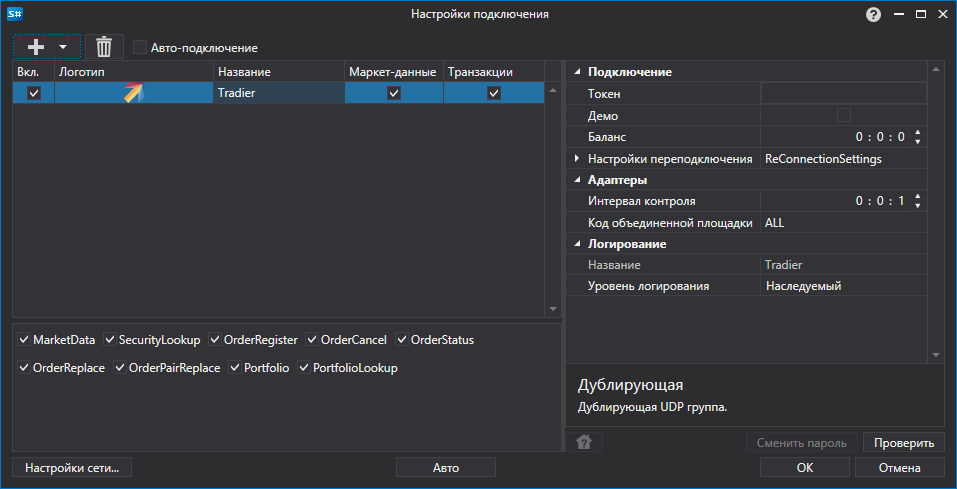
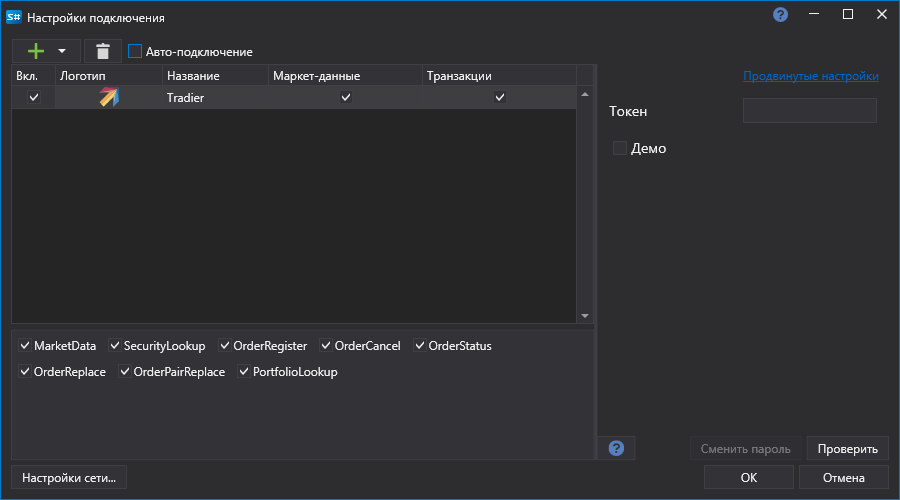
OAuth

diff --git a/ru/topics/api/connectors/stock_market/tradier/graphical_configuration_tradier.md b/ru/topics/api/connectors/stock_market/tradier/graphical_configuration_tradier.md
@@ -1,19 +1,38 @@
 # Графическое конфигурирование Tradier
 
-Для всех продуктов [S\#](../../../../api.md) графическая настройка подключения выполняется в экранной форме [Окно настройки подключений](../../../graphical_user_interface/connection_settings_window.md):
+Для всех продуктов StockSharp графическая настройка подключения выполняется в экранной форме [Окно настройки подключений](../../../graphical_user_interface/connection_settings_window.md):
 
 ![API GUI Settings Tradier](../../../../../images/api_gui_settings_tradier.png)
 
-- **Токен** \- Токен.
-- **Демо** \- Демо режим.
-- **Баланс** \- Интервал проверки баланса. Требуется в случае наличия действий по вводы или выводы.
-- **Настройки переподключения** \- Настройки механизма отслеживания подключения с торговой системой ([Настройки переподключения](../../reconnection_settings.md)). 
-- **Интервал контроля** \- Интервал оповещения сервера о том, что подключение еще живое. По умолчанию равно 1 минуте. 
-- **Код объединенной площадки** \- Код площадки для объединенного инструмента. 
+- **Токен** - Токен для авторизации.
+- **Демо** - Демо режим.
+
+Авторизация OAuth:
+
+1. Можно напрямую вставить токен в поле "Токен".
+2. Если оставить поле токена пустым и не выбран режим "Демо", будет использоваться авторизация по OAuth.
+
+Процесс OAuth авторизации:
+
+1. При нажатии кнопки "Проверить" откроется окно:
+
+   ![OAuth Start](../../../../../images/oauth_start.png)
+
+2. После нажатия "Старт" пользователь будет перенаправлен на сайт Tradier для входа:
+
+   ![Tradier Login](../../../../../images/api_gui_settings_tradier_2.png)
+
+3. На сайте Tradier нужно разрешить приложению StockSharp доступ к торговым операциям:
+
+   ![Tradier Permissions](../../../../../images/api_gui_settings_tradier_3.png)
+
+4. После этого произойдет перенаправление обратно на сайт StockSharp, и программа автоматически выполнит вход.
 
 ## См. также
 
 [Коннекторы](../../../connectors.md)
+
+[OAuth](../../oauth.md)
 
 [Графическое конфигурирование](../../graphical_configuration.md)
 

diff --git a/ru/topics/api/connectors/russia/alor/ui_settings.md b/ru/topics/api/connectors/russia/alor/ui_settings.md
@@ -1,16 +1,39 @@
 # Графическое конфигурирование Alor
 
-Для всех продуктов [S\#](../../../../api.md) графическая настройка подключения выполняется в экранной форме [Окно настройки подключений](../../../graphical_user_interface/connection_settings_window.md):
+Для всех продуктов StockSharp графическая настройка подключения выполняется в экранной форме [Окно настройки подключений](../../../graphical_user_interface/connection_settings_window.md):
 
 ![API GUI Settings Alor](../../../../../images/api_gui_settings_alor.png)
 
-- **Токен** \- Refresh токен.
-- **Логин** \- Логин. Используется для получения информации по всему логину.
-- **Демо** \- Демо торги.
+- **Токен** - Refresh токен.
+- **Демо** - Демо торги.
+- **Биржа** - Выбор бирж (по умолчанию MOEX.SPBX).
+
+Авторизация OAuth:
+
+1. Можно напрямую вставить refresh токен в поле "Токен".
+2. Если оставить поле токена пустым и не выбран режим "Демо", будет использоваться авторизация по OAuth.
+
+Процесс OAuth авторизации:
+
+1. При нажатии кнопки "Проверить" откроется окно:
+
+   ![OAuth Start](../../../../../images/oauth_start.png)
+
+2. После нажатия "Старт" пользователь будет перенаправлен на сайт Alor Broker для входа:
+
+   ![Alor Login](../../../../../images/api_gui_settings_alor_2.png)
+
+3. На сайте Alor Broker нужно разрешить приложению StockSharp доступ к торговым операциям:
+
+   ![Alor Permissions](../../../../../images/api_gui_settings_alor_3.png)
+
+4. После этого произойдет перенаправление обратно на сайт StockSharp, и программа автоматически выполнит вход.
 
 ## См. также
 
 [Коннекторы](../../../connectors.md)
+
+[OAuth](../../oauth.md)
 
 [Графическое конфигурирование](../../graphical_configuration.md)
 

diff --git a/en/topics/api/connectors/stock_market/tradier/graphical_configuration_tradier.md b/en/topics/api/connectors/stock_market/tradier/graphical_configuration_tradier.md
@@ -1,21 +1,41 @@
-# Graphical configuration Tradier
+# Graphical configuration of Tradier
 
-For all [S\#](../../../../api.md) products, graphical configuration of the connection is performed on the [Connection settings window](../../../graphical_user_interface/connection_settings_window.md):
+For all StockSharp products, graphical connection setup is performed in the [Connection settings window](../../../graphical_user_interface/connection_settings_window.md) screen form:
 
 ![API GUI Settings Tradier](../../../../../images/api_gui_settings_tradier.png)
 
-- **Token** \- Token.
-- **Demo** \- Connect to demo trading instead of real trading server.
-- **Balance** \- Balance check interval. Required in case of deposit and withdraw actions.
-- **Heart beat** \- Server check interval for track the connection alive. By default equal to 1 minute.
-- **Reconnection settings** \- Mechanism for tracking connections with the trading system settings. ([Reconnection settings](../../reconnection_settings.md))
+- **Token** - Authorization token.
+- **Demo** - Demo mode.
 
-## Recommended content
+OAuth Authorization:
+
+1. You can directly insert the token into the "Token" field.
+2. If you leave the token field empty and the "Demo" mode is not selected, OAuth authorization will be used.
+
+OAuth authorization process:
+
+1. When you click the "Check" button, a window will open:
+
+   ![OAuth Start](../../../../../images/oauth_start.png)
+
+2. After clicking "Start", the user will be redirected to the Tradier website to log in:
+
+   ![Tradier Login](../../../../../images/api_gui_settings_tradier_2.png)
+
+3. On the Tradier website, you need to allow the StockSharp application access to trading operations:
+
+   ![Tradier Permissions](../../../../../images/api_gui_settings_tradier_3.png)
+
+4. After that, you will be redirected back to the StockSharp website, and the program will automatically log in.
+
+## See also
 
 [Connectors](../../../connectors.md)
 
+[OAuth](../../oauth.md)
+
 [Graphical configuration](../../graphical_configuration.md)
 
-[Creating own connector](../../creating_own_connector.md)
+[Creating your own connector](../../creating_own_connector.md)
 
-[Save and load settings](../../save_and_load_settings.md)
+[Saving and loading settings](../../save_and_load_settings.md)

diff --git a/ru/topics/api/connectors/oauth.md b/ru/topics/api/connectors/oauth.md
@@ -1,0 +1,29 @@
+# OAuth авторизация
+
+Для использования OAuth авторизации в коннекторах в вашей программе необходимо зарегистрировать несколько сервисов:
+
+```csharp
+// Подключение хранилища паролей для доступа на StockSharp WebAPI.
+// Требуется предварительная авторизация. Например, через Installer.
+ConfigManager.RegisterService<ICredentialsProvider>(new DefaultCredentialsProvider());
+
+// Подключение провайдера сервисов для доступа к StockSharp WebAPI
+ConfigManager.RegisterService<IApiServiceProvider>(new ApiServiceProvider());
+                           
+// Сервис OAuth авторизации, который будут использовать коннекторы
+ConfigManager.RegisterService<IOAuthProvider>(new OAuthProvider());
+```
+
+- [DefaultCredentialsProvider](xref:StockSharp.Configuration.DefaultCredentialsProvider) реализует интерфейс [ICredentialsProvider](xref:StockSharp.Configuration.ICredentialsProvider)
+- [ApiServiceProvider](xref:StockSharp.Web.Api.Client.ApiServiceProvider) реализует интерфейс [IApiServiceProvider](xref:StockSharp.Web.Api.Client.IApiServiceProvider)
+- `OAuthProvider` реализует интерфейс [IOAuthProvider](xref:Ecng.Net.IOAuthProvider)
+
+Для [IOAuthProvider](xref:Ecng.Net.IOAuthProvider) существует два варианта реализации:
+
+1. [WebApiOAuthProvider](xref:StockSharp.Studio.WebApi.WebApiOAuthProvider) - для консольных приложений, где не требуется показ окна авторизации.
+
+2. [OAuthProvider](xref:StockSharp.Studio.Controls.OAuthProvider) - для WPF-приложений, где необходимо показать окно авторизации:
+
+   ![OAuth Start](../../../images/oauth_start.png)
+
+Выбор конкретной реализации `OAuthProvider` зависит от типа вашего приложения и требований к процессу авторизации.

diff --git a/ru/topics/api/connectors/forex/ctrader/graphical_configuration_ctrader.md b/ru/topics/api/connectors/forex/ctrader/graphical_configuration_ctrader.md
@@ -1,14 +1,32 @@
 # Графическое конфигурирование cTrader
 
-Для всех продуктов [S\#](../../../../api.md) графическая настройка подключения выполняется в экранной форме [Окно настройки подключений](../../../graphical_user_interface/connection_settings_window.md):
+Для всех продуктов StockSharp графическая настройка подключения выполняется в экранной форме [Окно настройки подключений](../../../graphical_user_interface/connection_settings_window.md):
 
 ![API GUI Settings cTrader](../../../../../images/api_gui_settings_ctrader.png)
 
-- **Демо** \- Подключение к демо торгам. 
+- **Демо** - Подключение к демо торгам.
+
+Авторизация OAuth:
+
+cTrader предоставляет только OAuth способ авторизации.
+
+Процесс OAuth авторизации:
+
+1. При нажатии кнопки "Проверить" откроется окно:
+
+   ![OAuth Start](../../../../../images/oauth_start.png)
+
+2. После нажатия "Старт" пользователь будет перенаправлен на сайт cTrader для входа. На сайте cTrader нужно разрешить приложению StockSharp доступ к торговым операциям:
+
+   ![cTrader Login](../../../../../images/api_gui_settings_ctrader_2.png)
+
+3. После этого произойдет перенаправление обратно на сайт StockSharp, и программа автоматически выполнит вход.
 
 ## См. также
 
 [Коннекторы](../../../connectors.md)
+
+[OAuth](../../oauth.md)
 
 [Графическое конфигурирование](../../graphical_configuration.md)
 

diff --git a/en/topics/api/connectors/oauth.md b/en/topics/api/connectors/oauth.md
@@ -1,0 +1,29 @@
+# OAuth Authorization
+
+To use OAuth authorization in connectors in your program, you need to register several services:
+
+```csharp
+// Connecting the password storage for access to StockSharp WebAPI.
+// Prior authorization is required. For example, through the Installer.
+ConfigManager.RegisterService<ICredentialsProvider>(new DefaultCredentialsProvider());
+
+// Connecting the service provider for access to StockSharp WebAPI
+ConfigManager.RegisterService<IApiServiceProvider>(new ApiServiceProvider());
+                           
+// OAuth authorization service that will be used by connectors
+ConfigManager.RegisterService<IOAuthProvider>(new OAuthProvider());
+```
+
+- [DefaultCredentialsProvider](xref:StockSharp.Configuration.DefaultCredentialsProvider) implements the interface [ICredentialsProvider](xref:StockSharp.Configuration.ICredentialsProvider)
+- [ApiServiceProvider](xref:StockSharp.Web.Api.Client.ApiServiceProvider) implements the interface [IApiServiceProvider](xref:StockSharp.Web.Api.Client.IApiServiceProvider)
+- `OAuthProvider` implements the interface [IOAuthProvider](xref:Ecng.Net.IOAuthProvider)
+
+There are two implementation options for [IOAuthProvider](xref:Ecng.Net.IOAuthProvider):
+
+1. [WebApiOAuthProvider](xref:StockSharp.Studio.WebApi.WebApiOAuthProvider) - for console applications where no authorization window display is required.
+
+2. [OAuthProvider](xref:StockSharp.Studio.Controls.OAuthProvider) - for WPF applications where an authorization window needs to be displayed:
+
+   ![OAuth Start](../../../images/oauth_start.png)
+
+The choice of a specific `OAuthProvider` implementation depends on your application type and authorization process requirements.

diff --git a/en/topics/api/connectors/forex/ctrader/graphical_configuration_ctrader.md b/en/topics/api/connectors/forex/ctrader/graphical_configuration_ctrader.md
@@ -1,17 +1,35 @@
-# Graphical Configuration of cTrader
+# Graphical configuration of cTrader
 
-For all [S\\#](../../../../api.md) products, graphical configuration of the connection is performed in the [Connection Settings Window](../../../graphical_user_interface/connection_settings_window.md):
+For all StockSharp products, graphical connection setup is performed in the [Connection settings window](../../../graphical_user_interface/connection_settings_window.md) screen form:
 
 ![API GUI Settings cTrader](../../../../../images/api_gui_settings_ctrader.png)
 
 - **Demo** - Connection to demo trading.
 
+OAuth Authorization:
+
+cTrader provides only OAuth method of authorization.
+
+OAuth authorization process:
+
+1. When you click the "Check" button, a window will open:
+
+   ![OAuth Start](../../../../../images/oauth_start.png)
+
+2. After clicking "Start", the user will be redirected to the cTrader website to log in. On the cTrader website, you need to allow the StockSharp application access to trading operations:
+
+   ![cTrader Login](../../../../../images/api_gui_settings_ctrader_2.png)
+
+3. After that, you will be redirected back to the StockSharp website, and the program will automatically log in.
+
 ## See also
 
 [Connectors](../../../connectors.md)
 
-[Graphical Configuration](../../graphical_configuration.md)
+[OAuth](../../oauth.md)
 
-[Creating Your Own Connector](../../creating_own_connector.md)
+[Graphical configuration](../../graphical_configuration.md)
 
-[Save and Load Settings](../../save_and_load_settings.md)
+[Creating your own connector](../../creating_own_connector.md)
+
+[Saving and loading settings](../../save_and_load_settings.md)
